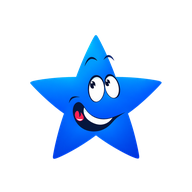
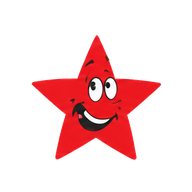
Red theme, trips at any time, and test families
Logo-red buttons, wine sign-in panel and emails, red star back; trips work any day and hour (0026).
Clearer Brevo errors; scripts/remove-test-families.sql clears the 10 test families.

Changed region(s): [[0.1562, 0.1875, 0.8438, 0.8438]]

diff --git a/supabase/functions/_shared/emailLayout.ts b/supabase/functions/_shared/emailLayout.ts
@@ -21,11 +21,11 @@ export function escapeHtml(s: string): string {
 }
 
 /**
- * The invitation itself: a navy card with a gold button that opens sign-in with their email filled in. The link fills the gold cell,
+ * The invitation itself: a deep red card with a gold button that opens sign-in with their email filled in. The link fills the gold cell,
  * so the whole button is tappable in every client; Outlook, which ignores gradients, gets the solid colours.
  */
 export function invitationCard(signInHref: string, siteHref: string, host: string): string {
-  return `<table role="presentation" cellpadding="0" cellspacing="0" border="0" width="100%" bgcolor="#1b1f4b" style="background:#1b1f4b;background-image:linear-gradient(135deg,#252a63 0%,#16193a 100%);border-radius:24px;box-shadow:0 16px 36px rgba(22,25,58,0.28);">
+  return `<table role="presentation" cellpadding="0" cellspacing="0" border="0" width="100%" bgcolor="#6b1119" style="background:#6b1119;background-image:linear-gradient(135deg,#8a161b 0%,#4a0c14 100%);border-radius:24px;box-shadow:0 16px 36px rgba(90,15,26,0.3);">
                 <tr>
                   <td align="center" class="hero" style="padding:30px 28px 30px;">
                     <div style="font-family:${SANS};font-size:11px;line-height:16px;font-weight:800;letter-spacing:2.4px;text-transform:uppercase;color:#ffd54a;">&#9733;&nbsp; Your personal invitation &nbsp;&#9733;</div>
@@ -37,7 +37,7 @@ export function invitationCard(signInHref: string, siteHref: string, host: strin
                         </td>
                       </tr>
                     </table>
-                    <div style="margin-top:16px;font-family:${SANS};font-size:13px;line-height:20px;color:#aab0d6;">or visit <a href="${siteHref}" target="_blank" style="color:#ffffff;font-weight:700;text-decoration:none;border-bottom:1px solid rgba(255,255,255,0.35);">${host}</a></div>
+                    <div style="margin-top:16px;font-family:${SANS};font-size:13px;line-height:20px;color:#f3c9c6;">or visit <a href="${siteHref}" target="_blank" style="color:#ffffff;font-weight:700;text-decoration:none;border-bottom:1px solid rgba(255,255,255,0.35);">${host}</a></div>
                   </td>
                 </tr>
               </table>`
@@ -45,10 +45,10 @@ export function invitationCard(signInHref: string, siteHref: string, host: strin
 
 /** The 6-digit code on a soft panel, big enough to read at a glance and easy to select and copy. */
 export function codePanel(code: string): string {
-  return `<table role="presentation" cellpadding="0" cellspacing="0" border="0" width="100%" style="background:#f7f4ff;border:1px solid #e4dcfb;border-radius:20px;">
+  return `<table role="presentation" cellpadding="0" cellspacing="0" border="0" width="100%" style="background:#fff7f5;border:1px solid #f8d7d3;border-radius:20px;">
                 <tr>
                   <td align="center" style="padding:22px 16px 24px;">
-                    <div style="font-family:${SANS};font-size:11px;line-height:16px;font-weight:800;letter-spacing:2px;text-transform:uppercase;color:#6d5bd0;">Your code</div>
+                    <div style="font-family:${SANS};font-size:11px;line-height:16px;font-weight:800;letter-spacing:2px;text-transform:uppercase;color:#b3262b;">Your code</div>
                     <div class="code" style="margin-top:6px;font-family:${DISPLAY};font-size:46px;line-height:56px;font-weight:800;letter-spacing:14px;padding-left:14px;color:${INK};font-variant-numeric:tabular-nums;">${code}</div>
                     <div style="margin-top:6px;font-family:${SANS};font-size:13px;line-height:20px;font-weight:600;color:${INK_3};">Works once &middot; expires in 5 minutes</div>
                   </td>
@@ -60,7 +60,7 @@ export function codePanel(code: string): string {
 export function steps(items: string[]): string {
   const row = (n: number, body: string) => `
                 <tr>
-                  <td width="40" valign="top" style="padding:0 0 16px;"><div style="width:28px;height:28px;border-radius:14px;background:#f1edff;color:#4b3fb8;font-family:${SANS};font-size:14px;line-height:28px;font-weight:800;text-align:center;">${n}</div></td>
+                  <td width="40" valign="top" style="padding:0 0 16px;"><div style="width:28px;height:28px;border-radius:14px;background:#fdeceb;color:#a61c22;font-family:${SANS};font-size:14px;line-height:28px;font-weight:800;text-align:center;">${n}</div></td>
                   <td valign="top" style="padding:4px 0 16px;font-family:${SANS};font-size:15px;line-height:22px;color:${INK_2};">${body}</td>
                 </tr>`
   return `<p style="margin:0 0 16px;font-family:${SANS};font-size:11px;line-height:16px;font-weight:800;letter-spacing:2px;text-transform:uppercase;color:${INK_3};">How to sign in</p>
@@ -131,7 +131,7 @@ export function emailLayout(o: Layout): string {
           </tr>
           <tr>
             <td class="pad" align="center" style="padding:12px 44px 0;font-family:${DISPLAY};">
-              <span style="display:inline-block;padding:5px 12px;border-radius:999px;background:#f1edff;font-family:${SANS};font-size:12px;line-height:16px;font-weight:800;color:#4b3fb8;">${o.eyebrow}</span>
+              <span style="display:inline-block;padding:5px 12px;border-radius:999px;background:#fdeceb;font-family:${SANS};font-size:12px;line-height:16px;font-weight:800;color:#a61c22;">${o.eyebrow}</span>
               <h1 class="h1" style="margin:14px 0 0;font-size:28px;line-height:36px;font-weight:800;letter-spacing:-0.3px;color:${INK};">${o.heading}</h1>
               <p style="margin:12px 0 0;font-family:${SANS};font-size:16px;line-height:25px;color:${INK_2};">${o.intro}</p>
             </td>
@@ -140,7 +140,7 @@ export function emailLayout(o: Layout): string {
           ${o.after ? `<tr><td class="pad" style="padding:28px 44px 0;">${o.after}</td></tr>` : ''}
           <tr>
             <td class="pad" style="padding:24px 44px 36px;">
-              <table role="presentation" cellpadding="0" cellspacing="0" border="0" width="100%" style="background:#f6f5ff;border-radius:16px;">
+              <table role="presentation" cellpadding="0" cellspacing="0" border="0" width="100%" style="background:#fff6f5;border-radius:16px;">
                 <tr>
                   <td width="36" valign="top" style="padding:14px 0 14px 16px;font-size:18px;line-height:22px;">&#128274;</td>
                   <td valign="top" style="padding:14px 18px 14px 4px;font-family:${SANS};font-size:14px;line-height:21px;color:${INK_2};">${o.note}</td>

diff --git a/supabase/templates/confirmation.html b/supabase/templates/confirmation.html
@@ -37,15 +37,15 @@
           </tr>
           <tr>
             <td class="pad" align="center" style="padding:12px 44px 0;font-family:'Plus Jakarta Sans',-apple-system,BlinkMacSystemFont,'Segoe UI',Roboto,Helvetica,Arial,sans-serif;">
-              <span style="display:inline-block;padding:5px 12px;border-radius:999px;background:#f1edff;font-family:-apple-system,BlinkMacSystemFont,'Segoe UI',Roboto,Helvetica,Arial,sans-serif;font-size:12px;line-height:16px;font-weight:800;color:#4b3fb8;">Welcome</span>
+              <span style="display:inline-block;padding:5px 12px;border-radius:999px;background:#fdeceb;font-family:-apple-system,BlinkMacSystemFont,'Segoe UI',Roboto,Helvetica,Arial,sans-serif;font-size:12px;line-height:16px;font-weight:800;color:#a61c22;">Welcome</span>
               <h1 class="h1" style="margin:14px 0 0;font-size:28px;line-height:36px;font-weight:800;letter-spacing:-0.3px;color:#16193a;">Welcome to Jumpstart</h1>
               <p style="margin:12px 0 0;font-family:-apple-system,BlinkMacSystemFont,'Segoe UI',Roboto,Helvetica,Arial,sans-serif;font-size:16px;line-height:25px;color:#4b5070;">The school has added you to Jumpstart, the school's app for drop-offs, pickups and messages. Enter this code in the app to finish signing in.</p>
             </td>
           </tr>
-          <tr><td class="pad" align="center" style="padding:28px 44px 0;"><table role="presentation" cellpadding="0" cellspacing="0" border="0" width="100%" style="background:#f7f4ff;border:1px solid #e4dcfb;border-radius:20px;">
+          <tr><td class="pad" align="center" style="padding:28px 44px 0;"><table role="presentation" cellpadding="0" cellspacing="0" border="0" width="100%" style="background:#fff7f5;border:1px solid #f8d7d3;border-radius:20px;">
                 <tr>
                   <td align="center" style="padding:22px 16px 24px;">
-                    <div style="font-family:-apple-system,BlinkMacSystemFont,'Segoe UI',Roboto,Helvetica,Arial,sans-serif;font-size:11px;line-height:16px;font-weight:800;letter-spacing:2px;text-transform:uppercase;color:#6d5bd0;">Your code</div>
+                    <div style="font-family:-apple-system,BlinkMacSystemFont,'Segoe UI',Roboto,Helvetica,Arial,sans-serif;font-size:11px;line-height:16px;font-weight:800;letter-spacing:2px;text-transform:uppercase;color:#b3262b;">Your code</div>
                     <div class="code" style="margin-top:6px;font-family:'Plus Jakarta Sans',-apple-system,BlinkMacSystemFont,'Segoe UI',Roboto,Helvetica,Arial,sans-serif;font-size:46px;line-height:56px;font-weight:800;letter-spacing:14px;padding-left:14px;color:#16193a;font-variant-numeric:tabular-nums;">{{ .Token }}</div>
                     <div style="margin-top:6px;font-family:-apple-system,BlinkMacSystemFont,'Segoe UI',Roboto,Helvetica,Arial,sans-serif;font-size:13px;line-height:20px;font-weight:600;color:#6a6f8c;">Works once &middot; expires in 5 minutes</div>
                   </td>
@@ -54,7 +54,7 @@
           <tr><td class="pad" style="padding:28px 44px 0;"><p style="margin:0;text-align:center;font-family:-apple-system,BlinkMacSystemFont,'Segoe UI',Roboto,Helvetica,Arial,sans-serif;font-size:14px;line-height:22px;color:#4b5070;">Signing in as <b style="color:#16193a;">{{ .Email }}</b></p></td></tr>
           <tr>
             <td class="pad" style="padding:24px 44px 36px;">
-              <table role="presentation" cellpadding="0" cellspacing="0" border="0" width="100%" style="background:#f6f5ff;border-radius:16px;">
+              <table role="presentation" cellpadding="0" cellspacing="0" border="0" width="100%" style="background:#fff6f5;border-radius:16px;">
                 <tr>
                   <td width="36" valign="top" style="padding:14px 0 14px 16px;font-size:18px;line-height:22px;">&#128274;</td>
                   <td valign="top" style="padding:14px 18px 14px 4px;font-family:-apple-system,BlinkMacSystemFont,'Segoe UI',Roboto,Helvetica,Arial,sans-serif;font-size:14px;line-height:21px;color:#4b5070;"><b>Keep this code to yourself.</b> Jumpstart will never ask for it by phone or message. If you didn't try to sign in, ignore this email; no one can sign in without the code.</td>

diff --git a/supabase/templates/magic_link.html b/supabase/templates/magic_link.html
@@ -37,15 +37,15 @@
           </tr>
           <tr>
             <td class="pad" align="center" style="padding:12px 44px 0;font-family:'Plus Jakarta Sans',-apple-system,BlinkMacSystemFont,'Segoe UI',Roboto,Helvetica,Arial,sans-serif;">
-              <span style="display:inline-block;padding:5px 12px;border-radius:999px;background:#f1edff;font-family:-apple-system,BlinkMacSystemFont,'Segoe UI',Roboto,Helvetica,Arial,sans-serif;font-size:12px;line-height:16px;font-weight:800;color:#4b3fb8;">Sign-in code</span>
+              <span style="display:inline-block;padding:5px 12px;border-radius:999px;background:#fdeceb;font-family:-apple-system,BlinkMacSystemFont,'Segoe UI',Roboto,Helvetica,Arial,sans-serif;font-size:12px;line-height:16px;font-weight:800;color:#a61c22;">Sign-in code</span>
               <h1 class="h1" style="margin:14px 0 0;font-size:28px;line-height:36px;font-weight:800;letter-spacing:-0.3px;color:#16193a;">Here’s your code</h1>
               <p style="margin:12px 0 0;font-family:-apple-system,BlinkMacSystemFont,'Segoe UI',Roboto,Helvetica,Arial,sans-serif;font-size:16px;line-height:25px;color:#4b5070;">Enter this code in the Jumpstart app to sign in.</p>
             </td>
           </tr>
-          <tr><td class="pad" align="center" style="padding:28px 44px 0;"><table role="presentation" cellpadding="0" cellspacing="0" border="0" width="100%" style="background:#f7f4ff;border:1px solid #e4dcfb;border-radius:20px;">
+          <tr><td class="pad" align="center" style="padding:28px 44px 0;"><table role="presentation" cellpadding="0" cellspacing="0" border="0" width="100%" style="background:#fff7f5;border:1px solid #f8d7d3;border-radius:20px;">
                 <tr>
                   <td align="center" style="padding:22px 16px 24px;">
-                    <div style="font-family:-apple-system,BlinkMacSystemFont,'Segoe UI',Roboto,Helvetica,Arial,sans-serif;font-size:11px;line-height:16px;font-weight:800;letter-spacing:2px;text-transform:uppercase;color:#6d5bd0;">Your code</div>
+                    <div style="font-family:-apple-system,BlinkMacSystemFont,'Segoe UI',Roboto,Helvetica,Arial,sans-serif;font-size:11px;line-height:16px;font-weight:800;letter-spacing:2px;text-transform:uppercase;color:#b3262b;">Your code</div>
                     <div class="code" style="margin-top:6px;font-family:'Plus Jakarta Sans',-apple-system,BlinkMacSystemFont,'Segoe UI',Roboto,Helvetica,Arial,sans-serif;font-size:46px;line-height:56px;font-weight:800;letter-spacing:14px;padding-left:14px;color:#16193a;font-variant-numeric:tabular-nums;">{{ .Token }}</div>
                     <div style="margin-top:6px;font-family:-apple-system,BlinkMacSystemFont,'Segoe UI',Roboto,Helvetica,Arial,sans-serif;font-size:13px;line-height:20px;font-weight:600;color:#6a6f8c;">Works once &middot; expires in 5 minutes</div>
                   </td>
@@ -54,7 +54,7 @@
           <tr><td class="pad" style="padding:28px 44px 0;"><p style="margin:0;text-align:center;font-family:-apple-system,BlinkMacSystemFont,'Segoe UI',Roboto,Helvetica,Arial,sans-serif;font-size:14px;line-height:22px;color:#4b5070;">Signing in as <b style="color:#16193a;">{{ .Email }}</b></p></td></tr>
           <tr>
             <td class="pad" style="padding:24px 44px 36px;">
-              <table role="presentation" cellpadding="0" cellspacing="0" border="0" width="100%" style="background:#f6f5ff;border-radius:16px;">
+              <table role="presentation" cellpadding="0" cellspacing="0" border="0" width="100%" style="background:#fff6f5;border-radius:16px;">
                 <tr>
                   <td width="36" valign="top" style="padding:14px 0 14px 16px;font-size:18px;line-height:22px;">&#128274;</td>
                   <td valign="top" style="padding:14px 18px 14px 4px;font-family:-apple-system,BlinkMacSystemFont,'Segoe UI',Roboto,Helvetica,Arial,sans-serif;font-size:14px;line-height:21px;color:#4b5070;"><b>Keep this code to yourself.</b> Jumpstart will never ask for it by phone or message. If you didn't try to sign in, ignore this email; no one can sign in without the code.</td>

diff --git a/src/styles/app.css b/src/styles/app.css
@@ -213,17 +213,17 @@
 
   .rainbow-bar { background: var(--rainbow); }
 
-  /* The sign-in page's brand panel: deep royal purple, a light sky-blue glow at the top, soft teal and blue below. */
+  /* The sign-in page's brand panel: deep wine red rising to the logo's red, with warm sunshine and orange glows. */
   .signin-hero {
     background:
-      radial-gradient(34rem 24rem at 105% -5%, rgb(125 190 255 / 0.32), transparent 62%),
-      radial-gradient(30rem 24rem at -15% 105%, rgb(20 175 165 / 0.38), transparent 62%),
-      radial-gradient(26rem 20rem at 95% 100%, rgb(31 139 230 / 0.4), transparent 62%),
-      linear-gradient(155deg, #24175f 0%, #3a2596 58%, #5b3fd6 100%);
+      radial-gradient(34rem 24rem at 105% -5%, rgb(255 194 26 / 0.26), transparent 62%),
+      radial-gradient(30rem 24rem at -15% 105%, rgb(247 133 42 / 0.3), transparent 62%),
+      radial-gradient(26rem 20rem at 95% 100%, rgb(255 120 110 / 0.28), transparent 62%),
+      linear-gradient(155deg, #3d0a13 0%, #7a1420 55%, #b8232a 100%);
   }
 
   /* Behind the sign-in card: a soft lavender light, so the card doesn't float in empty space. */
-  .signin-side { background: radial-gradient(32rem 26rem at 50% 40%, rgb(124 99 255 / 0.1), transparent 70%); }
+  .signin-side { background: radial-gradient(32rem 26rem at 50% 40%, rgb(200 38 44 / 0.07), transparent 70%); }
 
   /* A light travelling around a card's edge (src/ui/BorderBeam.tsx). Only where the browser can move it along the edge,
      and never with reduced motion. */
@@ -306,8 +306,8 @@
   .btn--icon { padding-inline: 0; }
   .btn--primary { --b: var(--accent); --fg: var(--on-accent); --lip: var(--accent-lip); --hover: var(--accent-hover); }
   /* A soft light from above on the deep violet: depth without a shine. */
-  .btn--primary:not(:disabled) { background-image: linear-gradient(180deg, #6a50ea, #5238cf); box-shadow: 0 var(--lipw) 0 var(--lip), 0 10px 22px -10px rgb(91 63 214 / 0.65); }
-  @media (hover: hover) { .btn--primary:hover:not(:disabled) { background-image: linear-gradient(180deg, #6147e2, #4a31c2); } }
+  .btn--primary:not(:disabled) { background-image: linear-gradient(180deg, #d93c41, #bb2228); box-shadow: 0 var(--lipw) 0 var(--lip), 0 10px 22px -10px rgb(200 38 44 / 0.6); }
+  @media (hover: hover) { .btn--primary:hover:not(:disabled) { background-image: linear-gradient(180deg, #c8262c, #a61c22); } }
   .btn--secondary { --b: var(--surface); --fg: var(--ink); --lip: var(--line-2); --edge: var(--line-2); --hover: var(--sunken); }
   .btn--sunshine { --b: var(--sun); --fg: var(--sun-ink); --lip: var(--sun-lip); --hover: var(--sun-hover); }
   .btn--success { --b: var(--success); --fg: #fff; --lip: var(--success-lip); --hover: var(--success-hover); }
@@ -488,7 +488,7 @@
     transition: border-color var(--dur-fast) var(--ease-standard), box-shadow var(--dur-fast) var(--ease-standard);
   }
   @media (hover: hover) { .input:hover { border-color: var(--line-hover); } }
-  .input:focus-within { border-color: var(--accent); box-shadow: var(--focus-ring); }
+  .input:focus-within { border-color: var(--ink-2); box-shadow: var(--focus-ring); }
   .input:has([aria-invalid='true']) { border-color: var(--danger); box-shadow: 0 0 0 4px color-mix(in oklab, var(--danger) 14%, transparent); }
   .input:has(:disabled) { opacity: 0.55; }
   .input > svg { width: 20px; height: 20px; flex: none; color: var(--ink-3); }
@@ -558,7 +558,7 @@
   .trip-person__dot {
     position: absolute; inset: 3px; border-radius: 9999px;
     background: var(--accent);
-    border: 3px solid #fff; box-shadow: 0 3px 10px rgb(91 63 214 / 0.35);
+    border: 3px solid #fff; box-shadow: 0 3px 10px rgb(200 38 44 / 0.35);
     transition: background var(--dur-slow) var(--ease-standard), opacity var(--dur-slow) var(--ease-standard);
   }
   .trip-person__pulse {

diff --git a/src/features/trips/rules.ts b/src/features/trips/rules.ts
@@ -1,5 +1,8 @@
 import type { ProgrammeRow } from '../admin/api'
-import { GATE_CLOSES, GATE_OPENS, formatTime, indiaClock, toMinutes, type Minutes } from '../../domain/time'
+import { formatTime, indiaClock, toMinutes, type Minutes } from '../../domain/time'
+
+/** Midnight: a trip is for today (0026 lifted the 8:45 AM to 7:15 PM limit). */
+const LAST_MINUTE: Minutes = 24 * 60
 import { windowFor, type Direction, type Programme, type TimeWindow } from '../../domain/programme'
 
 /** How soon a parent can say they'll arrive (the "I'm on my way" choices, in minutes). */
@@ -24,9 +27,9 @@ export function programmeOf(p: Pick<ProgrammeRow, 'name' | 'flexible' | 'starts'
 
 export type Arrival = 'closed' | 'early' | 'inside' | 'late'
 
-/** Where an arrival time falls: outside the gate day, 8:45 AM to 7:15 PM (not allowed), or early, inside or late for the child's window. */
+/** Where an arrival time falls: past midnight (not allowed: a trip is for today), or early, inside or late for the child's window (0026: any hour). */
 export function checkArrival(p: Programme, direction: Direction, arrival: Minutes): Arrival {
-  if (arrival < GATE_OPENS || arrival > GATE_CLOSES) return 'closed'
+  if (arrival >= LAST_MINUTE) return 'closed'
   const w = windowFor(p, direction)
   return arrival < w.from ? 'early' : arrival > w.to ? 'late' : 'inside'
 }
@@ -42,7 +45,7 @@ export const clockTime = (iso: string) => formatTime(indiaClock(new Date(iso)).m
 /**
  * Times someone can be booked to arrive (the Screen Book's "Arriving about"): the child's window, plus 15 minutes either
  * side of a short one, every 5 minutes (every 15 for a long window), from 10 minutes from now. Once the window has
- * passed, the next times until the gate closes, marked late. Each says where it falls, so early or late can ask why.
+ * passed, the next times until midnight, marked late. Each says where it falls, so early or late can ask why.
  */
 export function arrivalSlots(p: Programme, direction: Direction, nowMin: Minutes, count = 12): Array<{ at: Minutes; state: Arrival }> {
   const w = windowFor(p, direction)
@@ -51,9 +54,9 @@ export function arrivalSlots(p: Programme, direction: Direction, nowMin: Minutes
   const soonest = Math.ceil((nowMin + 10) / step) * step
   const around = (from: Minutes, to: Minutes) => {
     const out: Array<{ at: Minutes; state: Arrival }> = []
-    for (let t = Math.max(GATE_OPENS, soonest, from); t <= Math.min(GATE_CLOSES, to) && out.length < count; t += step) out.push({ at: t, state: checkArrival(p, direction, t) })
+    for (let t = Math.max(0, soonest, from); t <= Math.min(LAST_MINUTE - step, to) && out.length < count; t += step) out.push({ at: t, state: checkArrival(p, direction, t) })
     return out
   }
   const inWindow = around(wide ? w.from : w.from - 15, wide ? w.to : w.to + 15)
-  return inWindow.length ? inWindow : around(soonest, GATE_CLOSES)
+  return inWindow.length ? inWindow : around(soonest, LAST_MINUTE)
 }

diff --git a/src/styles/tokens.css b/src/styles/tokens.css
@@ -38,14 +38,13 @@
   --line-2: #ddd8e6; /* input edges, button lips on light surfaces */
   --line-hover: #cfc9dc;
 
-  /* Primary: royal violet, the one next action on a screen, from the same family as the deep purple of the sign-in
-     panel; light lavender for tints (white text 6.7:1). */
-  --accent: #5b3fd6;
-  --accent-hover: #4f35c9;
-  --accent-lip: #3a2596;
-  --accent-soft: #f0ecff;
-  --accent-ink: #4f35c9; /* accent text and links on light surfaces, 7.8:1 */
-  --brand-deep: #2a1b6e; /* the sign-in panel and other large brand surfaces */
+  /* Primary: Jumpstart red, from the logo's J and star, deepened so white text reads (5.6:1); blush for tints. */
+  --accent: #c8262c;
+  --accent-hover: #b41f25;
+  --accent-lip: #8a161b;
+  --accent-soft: #fdeceb;
+  --accent-ink: #a61c22; /* accent text and links on light surfaces, 7.5:1 */
+  --brand-deep: #5a0f1a; /* the sign-in panel and other large brand surfaces: deep wine */
 
   /* Secondary: ink, for area chips and solid labels */
   --secondary: #16193a;
@@ -70,15 +69,16 @@
   --danger-hover: #fff0ef;
   --danger-line: #f0c6c4;
   --danger-strong: #b91c1c; /* filled alerts with white text */
-  --info: #4f35c9;
-  --info-soft: #f0ecff;
+  --info: #0f766e; /* the logo's teal, so information never reads as an error */
+  --info-soft: #e6f5f3;
   --recent: #8f5a00;
   --recent-soft: #fff0cc;
   --stale: #5b6478;
   --stale-soft: #e9ecf3;
 
-  --focus: rgb(91 76 214 / 0.55);
-  --focus-ring: 0 0 0 4px rgb(91 76 214 / 0.18);
+  /* Focus is ink, not red: on a red-themed app a red outline would read as an error. */
+  --focus: rgb(22 25 58 / 0.5);
+  --focus-ring: 0 0 0 4px rgb(22 25 58 / 0.1);
 
   /* Whisper of the logo's colours behind every page */
   --whisper-a: rgb(239 59 63 / 0.07);
@@ -141,11 +141,11 @@
   --line-2: #343960;
   --line-hover: #444a74;
 
-  --accent: #5446c9; /* white text 6.8:1 */
-  --accent-hover: #6254d6;
-  --accent-lip: #342a8f;
-  --accent-soft: rgb(140 124 255 / 0.18);
-  --accent-ink: #c4bbff;
+  --accent: #d42f35; /* white text 4.9:1 */
+  --accent-hover: #e04449;
+  --accent-lip: #8a161b;
+  --accent-soft: rgb(229 72 77 / 0.18);
+  --accent-ink: #ff8a8e;
 
   --secondary: #f3f4ff;
   --secondary-lip: #9da2c8;
@@ -164,15 +164,15 @@
   --danger-hover: rgb(255 128 128 / 0.2);
   --danger-line: rgb(255 128 128 / 0.35);
   --danger-strong: #c42b2b;
-  --info: #c4bbff;
-  --info-soft: rgb(140 124 255 / 0.18);
+  --info: #5eead4;
+  --info-soft: rgb(45 212 191 / 0.16);
   --recent: #ffc857;
   --recent-soft: rgb(255 200 87 / 0.14);
   --stale: #a1a8c3;
   --stale-soft: rgb(161 168 195 / 0.14);
 
-  --focus: rgb(168 160 255 / 0.75);
-  --focus-ring: 0 0 0 4px rgb(168 160 255 / 0.2);
+  --focus: rgb(255 138 142 / 0.75);
+  --focus-ring: 0 0 0 4px rgb(255 138 142 / 0.2);
 
   --whisper-a: rgb(255 90 94 / 0.08);
   --whisper-b: rgb(74 166 255 / 0.12);

diff --git a/src/features/auth/LoginScreen.tsx b/src/features/auth/LoginScreen.tsx
@@ -59,13 +59,13 @@ export function SignInFrame({ children }: { children: ReactNode }) {
           <p className="mt-3 max-w-[14ch] text-[30px] leading-[1.08] font-extrabold tracking-[-0.02em] text-balance sm:text-[36px] lg:mt-5 lg:text-[52px] 2xl:text-[64px]" role="heading" aria-level={2}>
             Safe drop-offs and pickups
           </p>
-          <p className="mt-3 text-body font-semibold text-[#d9d0ff] lg:text-lead">Jumpstart Preschool, Karve Road</p>
+          <p className="mt-3 text-body font-semibold text-[#fde2df] lg:text-lead">Jumpstart Preschool, Karve Road</p>
         </div>
         <ul className="hidden max-w-[520px] gap-3 lg:grid">
           {PROMISES.map((p) => (
             <li key={p.title} className="flex items-center gap-3.5 rounded-2xl bg-white/[0.08] px-4 py-3 ring-1 ring-white/15 backdrop-blur-sm">
               <span className="grid size-10 shrink-0 place-items-center rounded-xl bg-white [&_svg]:size-[22px]" aria-hidden>{p.icon}</span>
-              <span className="text-body text-[#e6e0ff]"><b className="text-white">{p.title}.</b> {p.text}</span>
+              <span className="text-body text-[#fdecea]"><b className="text-white">{p.title}.</b> {p.text}</span>
             </li>
           ))}
         </ul>
@@ -216,7 +216,7 @@ export function LoginScreen() {
         ) : (
           <form key="code" onSubmit={onCode} noValidate className="page-in grid gap-4">
             <div className="text-center">
-              <span className="mx-auto grid size-16 place-items-center rounded-2xl bg-[linear-gradient(155deg,#3a2596,#5b3fd6)] text-white shadow-[0_12px_24px_-12px_rgb(91_63_214/0.8)]">
+              <span className="mx-auto grid size-16 place-items-center rounded-2xl bg-[linear-gradient(155deg,#8a161b,#c8262c)] text-white shadow-[0_12px_24px_-12px_rgb(200_38_44/0.7)]">
                 <MailCheck className="size-8" strokeWidth={1.75} aria-hidden />
               </span>
               <h1 className="mt-4 text-h2">Check your email</h1>

diff --git a/src/domain/domain.test.ts b/src/domain/domain.test.ts
@@ -79,11 +79,11 @@ describe('checkTime', () => {
     expect(checkTime(learningCenter, 'pickup', t('17:40'), null)).toEqual({ ok: true, offSchedule: false, shortNotice: false })
     expect(checkTime(learningCenter, 'dropoff', t('10:30'), null)).toEqual({ ok: true, offSchedule: true, shortNotice: false })
   })
-  it('refuses times outside the gate day (8:45 AM–7:15 PM) and in the past', () => {
+  it('allows any hour (0026), flags times outside the window, and refuses the past', () => {
     expect(checkTime(learningCenter, 'pickup', t('19:15'), null)).toEqual({ ok: true, offSchedule: true, shortNotice: false })
-    expect(checkTime(learningCenter, 'pickup', t('19:20'), null)).toEqual({ ok: false, reason: 'outside_school_hours' })
+    expect(checkTime(learningCenter, 'pickup', t('19:20'), null)).toEqual({ ok: true, offSchedule: true, shortNotice: false })
     expect(checkTime(learningCenter, 'dropoff', t('08:45'), null)).toEqual({ ok: true, offSchedule: false, shortNotice: false })
-    expect(checkTime(learningCenter, 'dropoff', t('08:40'), null)).toEqual({ ok: false, reason: 'outside_school_hours' })
+    expect(checkTime(learningCenter, 'dropoff', t('08:40'), null)).toEqual({ ok: true, offSchedule: true, shortNotice: false })
     expect(checkTime(jrKgHalfDay, 'pickup', t('12:30'), t('12:40'))).toEqual({ ok: false, reason: 'in_the_past' })
   })
 })

diff --git a/src/demo/demo.ts b/src/demo/demo.ts
@@ -259,10 +259,9 @@ function startTrip(db: Db, me: Row | undefined, args: Row): Response {
   const p = db.programmes.find((x) => x.id === child.programme_id)!
   const now = new Date(Math.floor(demoNow() / 60_000) * 60_000)
   const today = indiaClock(now)
-  if (!(p.weekdays as number[]).includes(today.weekday)) return fail('no_school: There is no school for this child today.')
   const arrive = new Date(now.getTime() + minutes * 60_000)
   const local = indiaClock(arrive)
-  if (local.date !== today.date || local.minutes < 8 * 60 + 45 || local.minutes > 19 * 60 + 15) return fail('outside_hours: The gate is open from 8:45 AM to 7:15 PM. Choose a time inside those hours.')
+  if (local.date !== today.date) return fail('outside_hours: That would be after midnight. Choose an earlier time.')
   if (db.attendance.some((a) => a.child_id === child.id && a.day === today.date && a.status !== 'present')) return fail('not_coming: This child is marked as not coming today. Call the school to change that.')
   if (db.trips.some((x) => x.child_id === child.id && x.direction === args.p_direction && x.day === today.date && (x.status === 'handed_over' || x.status === 'checked_in'))) {
     return fail(`already_done: ${args.p_direction === 'pickup' ? 'This child has already been collected today.' : 'This child has already been checked in today.'}`)

diff --git a/src/features/family/ParentToday.tsx b/src/features/family/ParentToday.tsx
@@ -7,7 +7,7 @@ import { EmptyState, ErrorState } from '../../ui/States'
 import { childColor } from '../../ui/childColor'
 import { useNow } from '../../ui/hooks'
 import { formatTime, indiaClock, toMinutes, type Minutes } from '../../domain/time'
-import { runsOn, windowFor, type Direction, type Programme } from '../../domain/programme'
+import { windowFor, type Direction, type Programme } from '../../domain/programme'
 import { supabase } from '../../lib/supabase'
 import { AreaShell } from '../auth/AreaShell'
 import { useSession } from '../auth/session'
@@ -143,7 +143,8 @@ function ChildCard({ child, trips, nowMs, meId, attendance, times, onChanged }: 
   const dropDone = mine.find((t) => t.direction === 'dropoff' && t.status === 'checked_in') ?? null
   const pickDone = mine.find((t) => t.direction === 'pickup' && t.status === 'handed_over') ?? null
   const regular = child.child_schedules.find((s) => s.weekday === today.weekday)
-  const school = programme ? runsOn(programme, today.date, new Set()) : false
+  // 0026: trips work any day, so the buttons show every day (the regular times still follow the programme's days).
+  const school = !!programme
 
   const changedTime = (d: Direction) => times.find((t) => t.direction === d) ?? null
   const usual = (d: Direction) => {

diff --git a/supabase/functions/invite-send/index.ts b/supabase/functions/invite-send/index.ts
@@ -19,7 +19,7 @@ const reply = (body: unknown, status = 200) => new Response(JSON.stringify(body)
 /** What the admin can do about a refused email, in words (Brevo's API error codes). */
 function brevoProblem(status: number, code: string): string {
   if (status === 401 || code === 'unauthorized') {
-    return "Brevo didn't accept the email key. In Brevo, open SMTP & API → API keys, create an API key (it starts with xkeysib-, not xsmtpsib-), and set it as BREVO_API_KEY."
+    return "Brevo refused the request. In Brevo, open Security → Authorised IPs and turn off blocking of unknown IP addresses for the API (Supabase sends from changing addresses). If that's already off, create a new API key (it starts with xkeysib-, not xsmtpsib-) and set it as BREVO_API_KEY."
   }
   if (code === 'permission_denied' || status === 403) return "Brevo's account can't send yet: check that it's activated and the key has permission to send emails."
   if (code === 'invalid_parameter' || code === 'missing_parameter' || status === 400) {

diff --git a/src/demo/demoSchool.ts b/src/demo/demoSchool.ts
@@ -32,9 +32,7 @@ function setDayTime(db: SchoolDb, child: unknown, direction: unknown, at: unknow
   if (!p) return h.fail('This child is not registered with the school.')
   const d = today()
   const now = indiaClock(new Date(demoNow()))
-  if (!(p.weekdays as number[]).includes(now.weekday)) return h.fail('no_school: There is no school for this child today.')
   const m = hm(at)
-  if (m < 525 || m > 1155) return h.fail('outside_hours: The gate is open from 8:45 AM to 7:15 PM.')
   if (m < now.minutes + 5) return h.fail('too_soon: Choose a time at least 5 minutes from now.')
   if (db.attendance.some((a) => a.child_id === child && a.day === d && a.status !== 'present')) return h.fail('not_coming: This child is marked as not coming today.')
   if (db.trips.some((x) => x.child_id === child && x.direction === direction && x.day === d && (x.status === 'handed_over' || x.status === 'checked_in'))) return h.fail('already_done: That has already happened today.')
